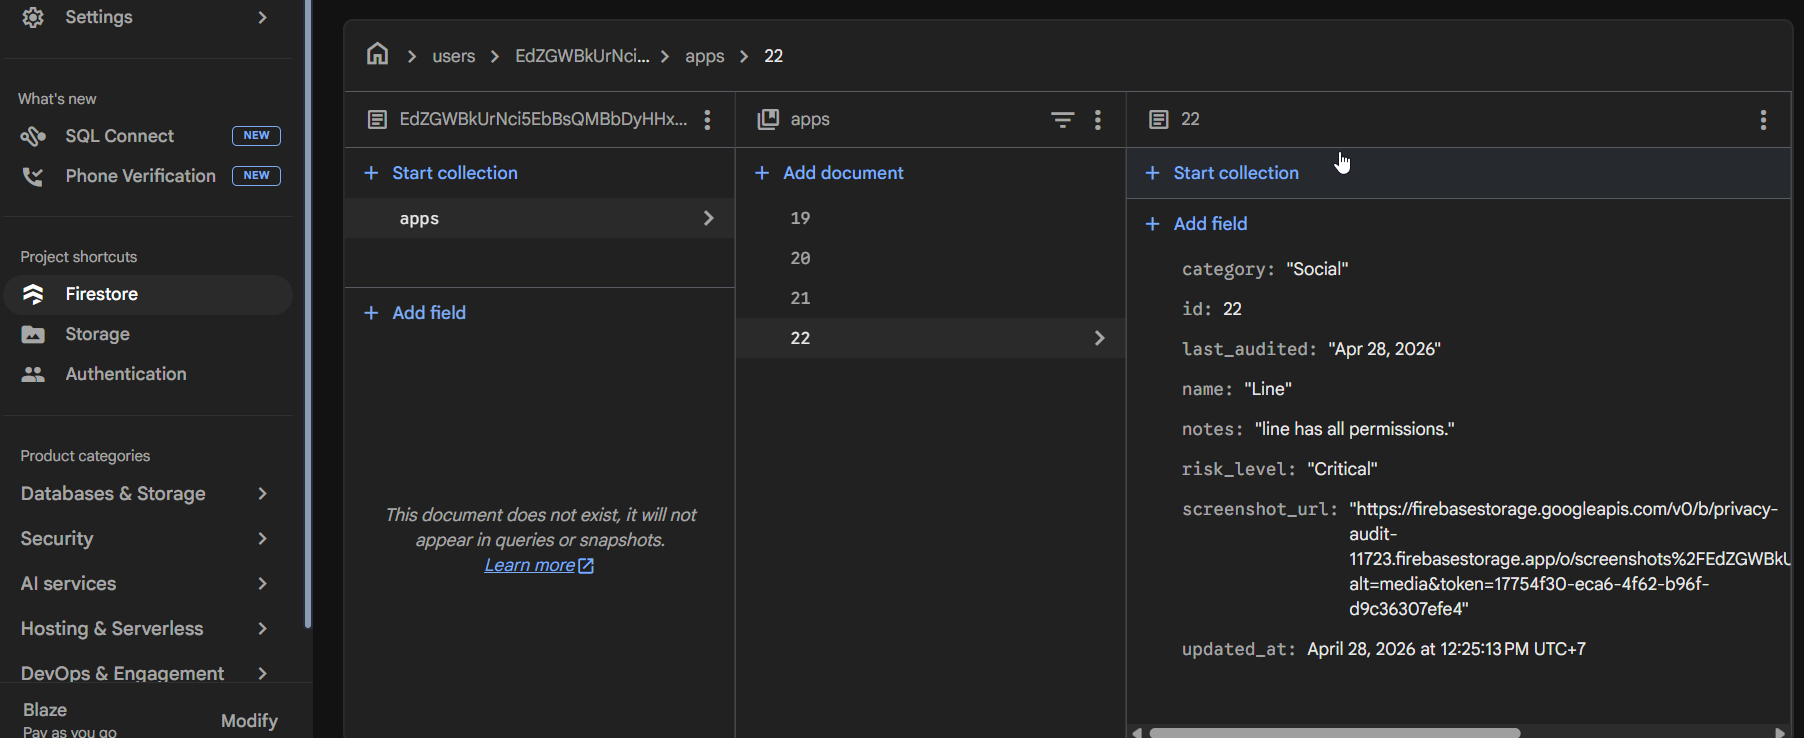
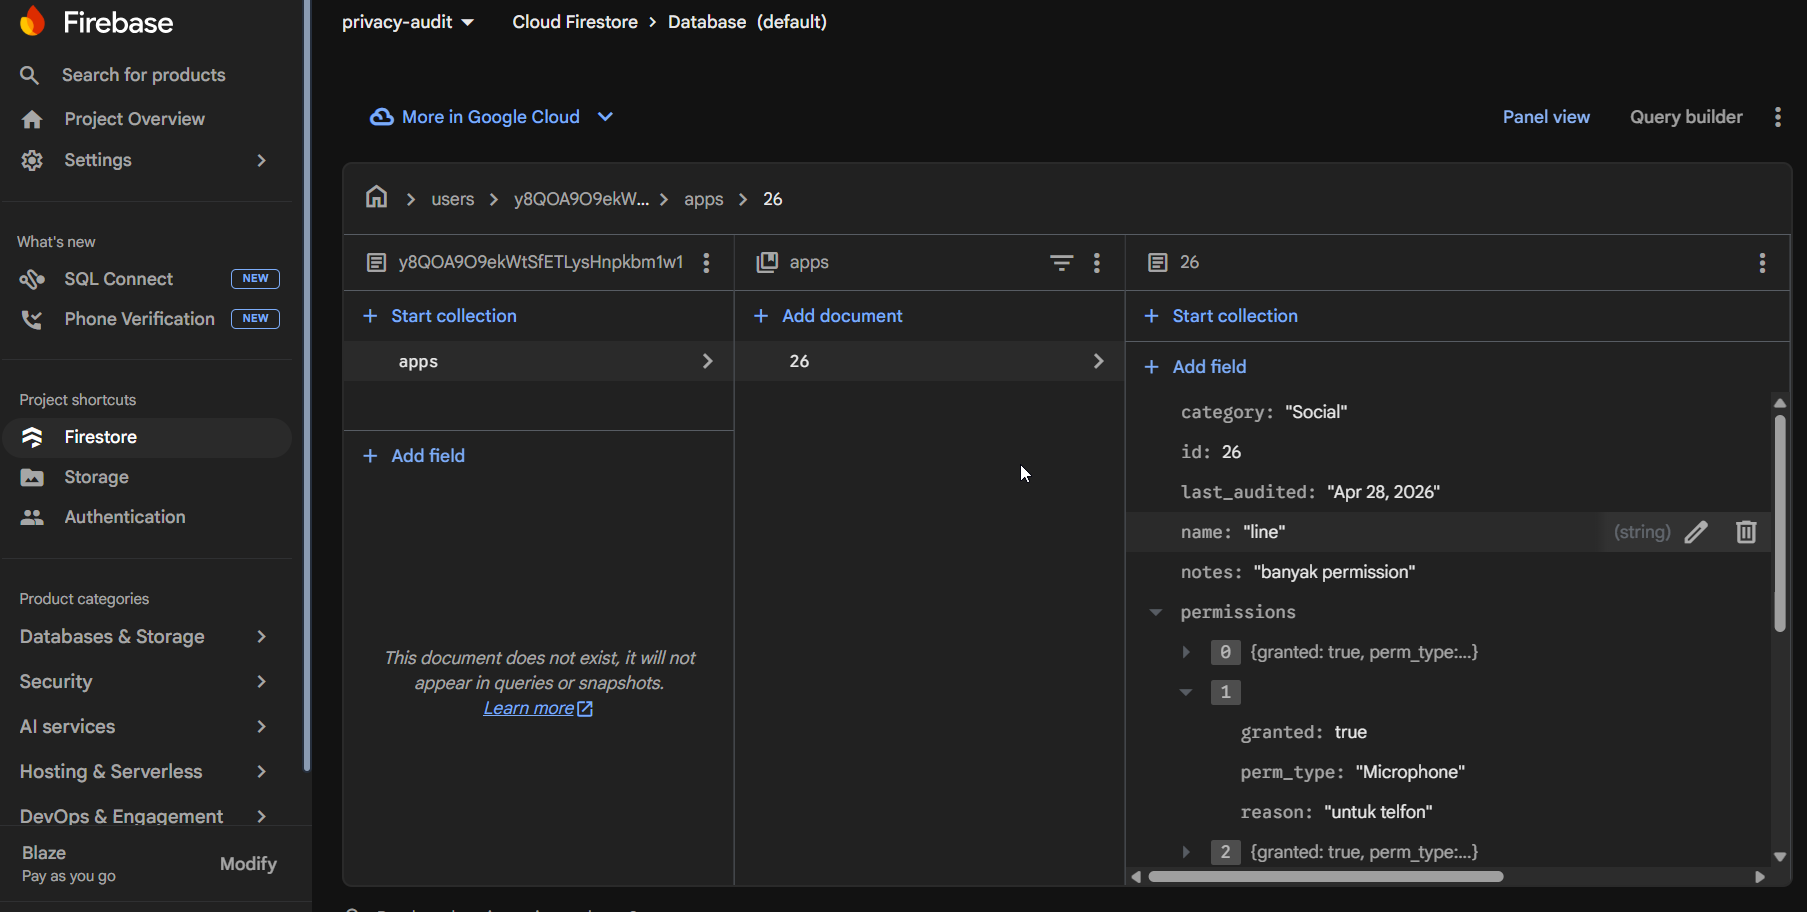
feat: store permission data in the firestore

diff --git a/lib/services/firestore_service.dart b/lib/services/firestore_service.dart
@@ -1,6 +1,7 @@
 import 'package:cloud_firestore/cloud_firestore.dart';
 import 'package:firebase_auth/firebase_auth.dart';
 import '../models/app_entry.dart';
+import '../models/permission_item.dart';
 
 class FirestoreService {
   static final _db = FirebaseFirestore.instance;
@@ -11,7 +12,7 @@ class FirestoreService {
   static CollectionReference get _appsRef =>
       _db.collection('users').doc(_uid).collection('apps');
 
-  static Future<void> saveApp(AppEntry entry) async {
+  static Future<void> saveApp(AppEntry entry, List<PermissionItem> perms) async {
     try {
       await _appsRef.doc(entry.id.toString()).set({
         'id': entry.id,
@@ -22,6 +23,11 @@ class FirestoreService {
         'screenshot_url': entry.screenshotUrl,
         'last_audited': entry.lastAudited,
         'updated_at': FieldValue.serverTimestamp(),
+        'permissions': perms.map((p) => {
+          'perm_type': p.permType,
+          'granted': p.granted,
+          'reason': p.reason,
+        }).toList(),
       });
     } catch (e) {
     }

diff --git a/lib/screens/add_app_screen.dart b/lib/screens/add_app_screen.dart
@@ -102,7 +102,7 @@ class _AddAppScreenState extends State<AddAppScreen> {
     await DatabaseService.insertPermissions(permItems);
 
     final savedEntry = entry.copyWith(id: appId);
-    await FirestoreService.saveApp(savedEntry);
+    await FirestoreService.saveApp(savedEntry, permItems);
 
     await NotificationService.showSaveSuccess(_nameCtrl.text.trim(), _riskLevel);
     if (_riskLevel == 'Critical') {

diff --git a/lib/screens/detail_screen.dart b/lib/screens/detail_screen.dart
@@ -121,7 +121,7 @@ class _DetailScreenState extends State<DetailScreen> {
     for (final p in _perms) {
       await DatabaseService.updatePermission(p);
     }
-    await FirestoreService.saveApp(updated);
+    await FirestoreService.saveApp(updated, _perms);
     await NotificationService.showUpdateSuccess(updated.name);
     setState(() { _entry = updated; _editing = false; });
     if (!mounted) return;
